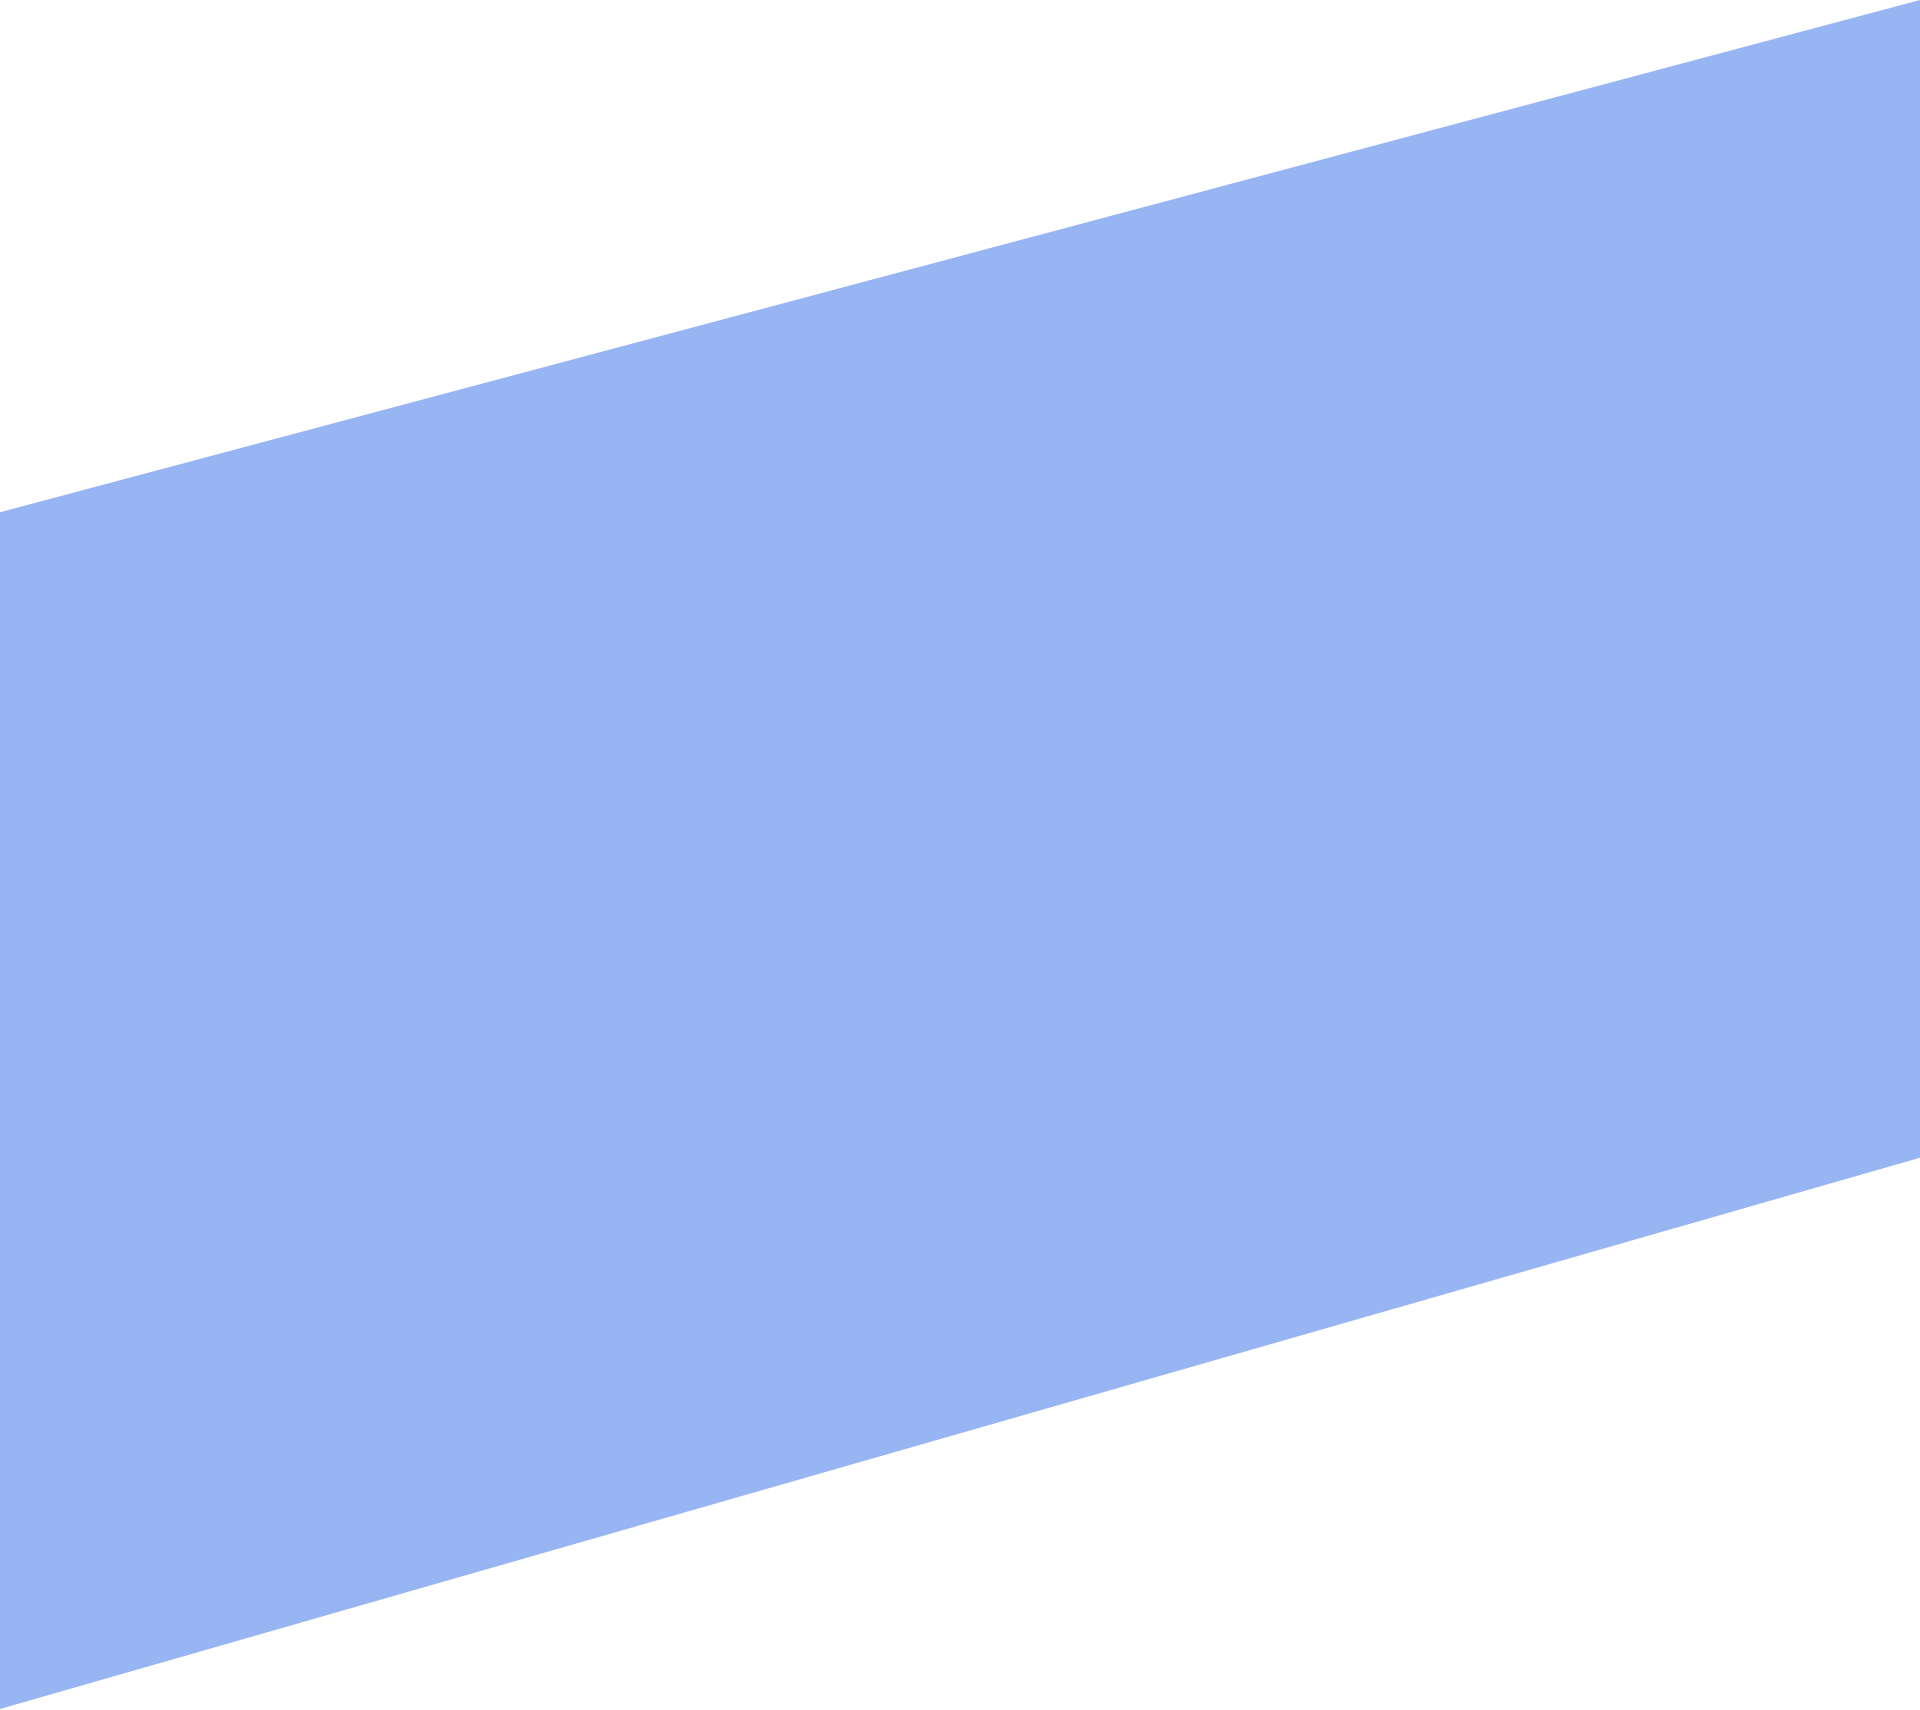
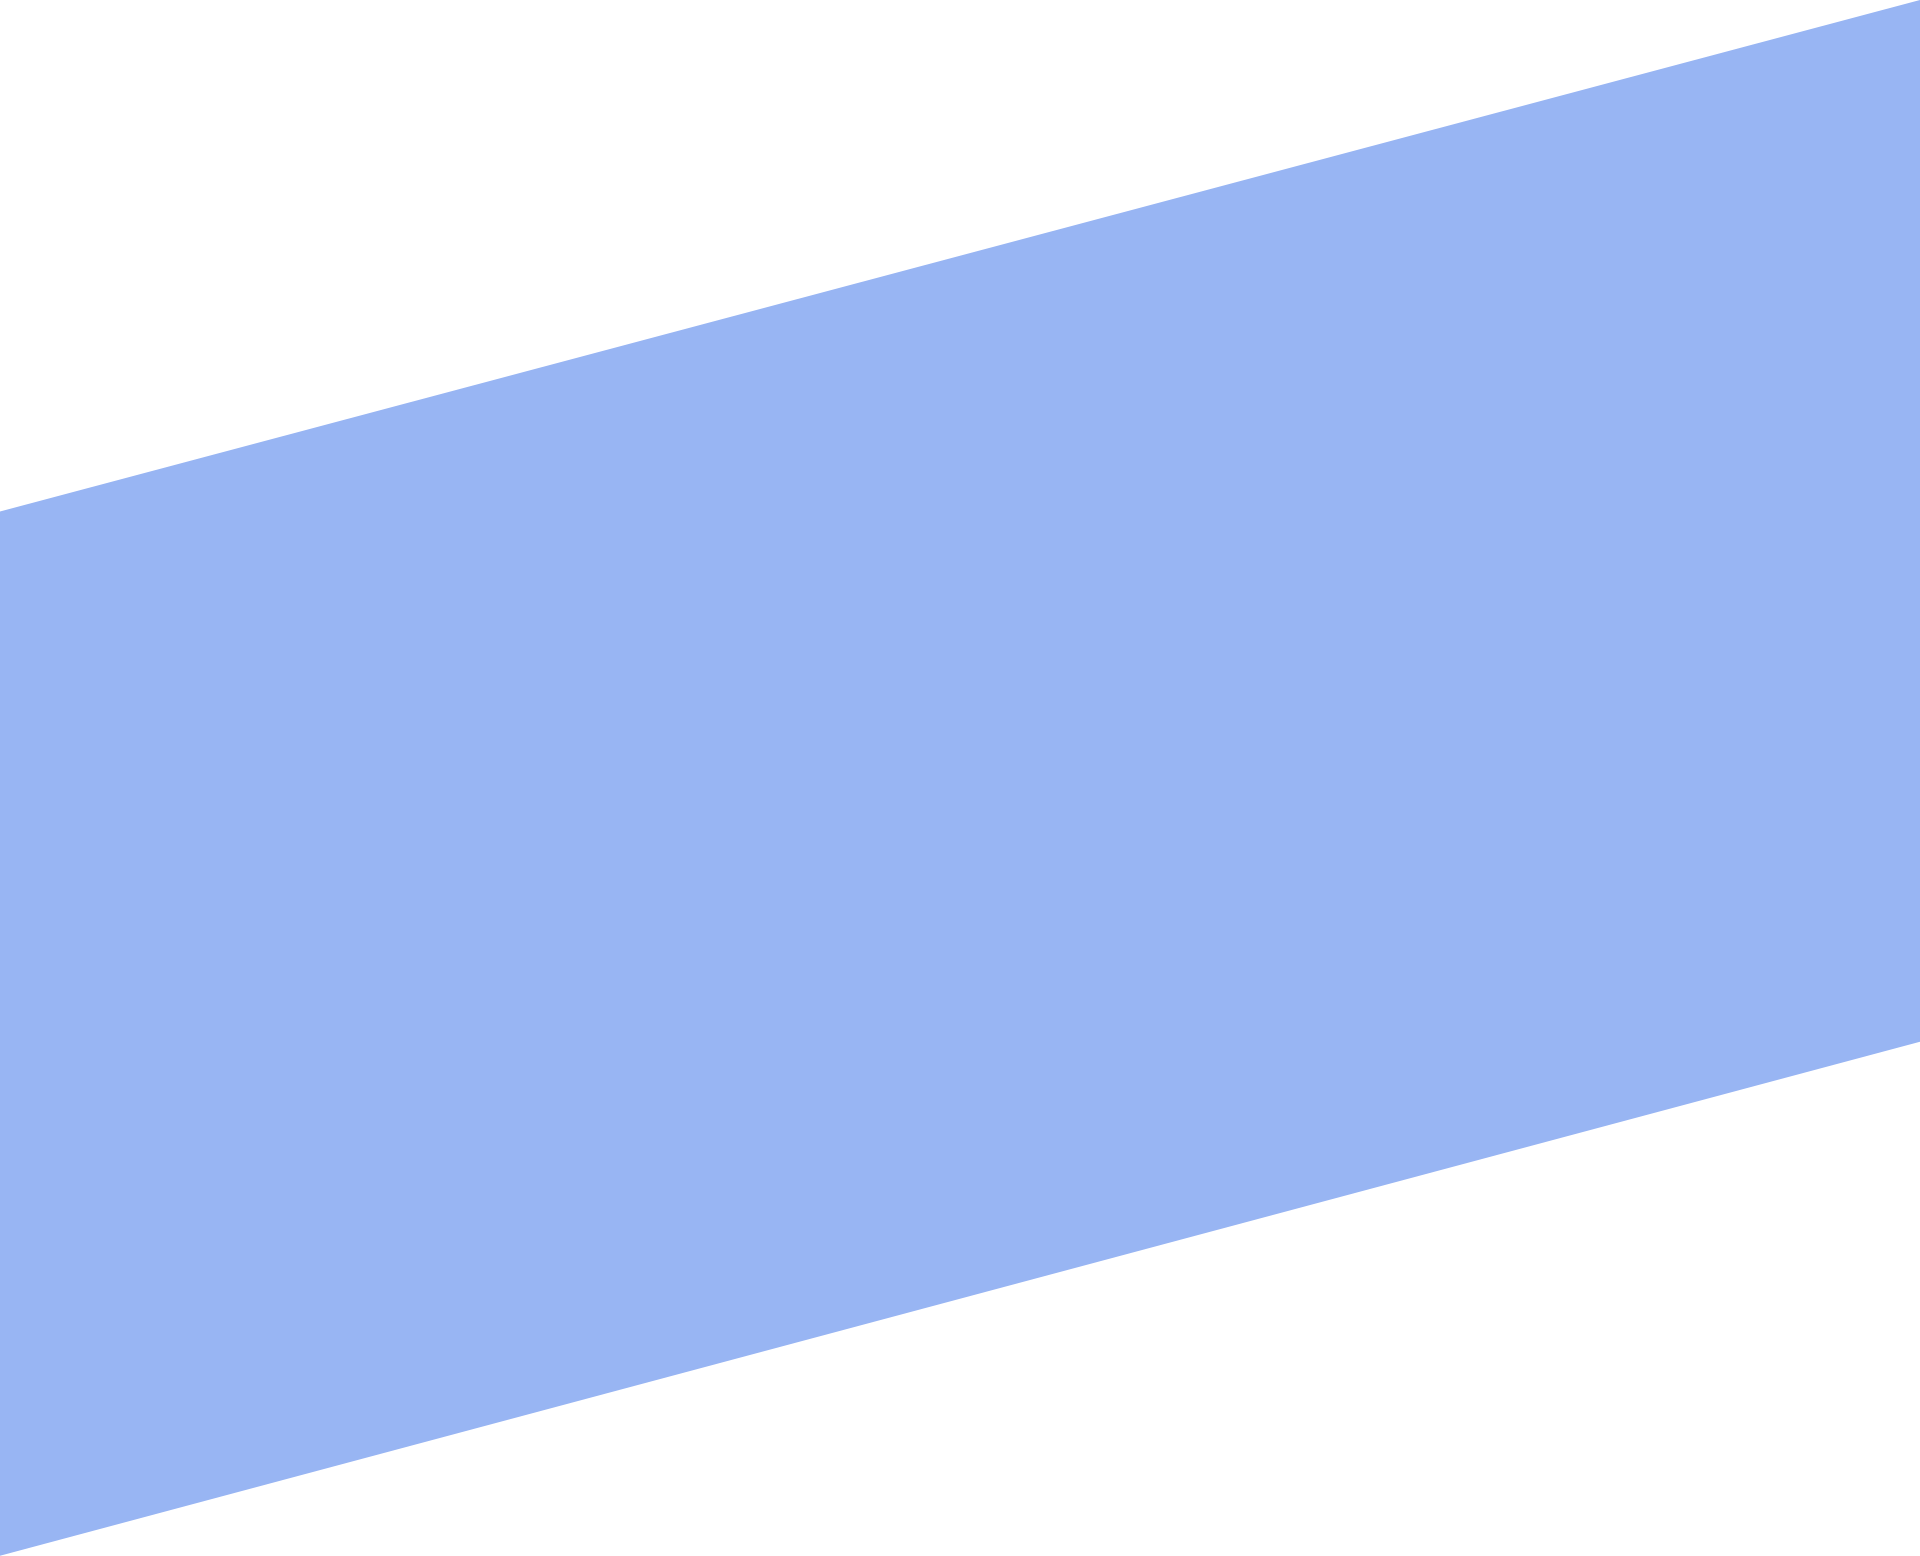
1

diff --git a/index.html b/index.html
@@ -10,6 +10,7 @@
 </head>
 <body>
     <header>
+<!-- Navigation Bar -->
         <nav>
             
             <a href="index.html"><img class="logo" src="images\Logo-with-text.png" alt="logo"></a>
@@ -19,6 +20,7 @@
                 <li><a href="contact.html">Contact Us</a></li>
             </ul>
         </nav>
+<!-- Hero Section -->
         <div class="hero container">
             <div class="hero--info">
                 <h1 class="hero--info-heading">We make your landscape dreams become a reality.</h1>
@@ -30,6 +32,7 @@
             </div>
         </div>
     </header>
+<!-- About Section -->    
     <main class="about" id="about">
         <div class="logo--decoration-container">
             <img class="logo-decorated" src="images\logo-decoration.png" alt="logo-decorated">
@@ -51,82 +54,98 @@
             </div>
             <div class="green-decoration second-bar"></div>
         </div>
-        
     </main>
+<!-- First Blue Decoration -->
+    <div class="blue--decoration-1-container">
+        <img src="images\blue-decoration-1.png" alt="blue-decoration" class="blue--decoration-1">
+    </div>
+   
+<!-- Services Section -->    
     <section class="services" id="services">
         <h1 class="services--h1">Commercial and Residential Services</h1>
-        <div class="blue--decoration-1-container">
-            <img src="images\blue-decoration-1.png" alt="blue-decoration" class="blue--decoration-1">
-        </div>
-        <div class="services--pictures">
+        <div class="services--pictures-container">
             <div class="pictures--row-of-3">
-                <img src="images\services\landscape-maintenance@2x.png" alt="landscape-maintenance">
-                <img src="images\services\deck-restorations@2x.png" alt="deck-restorations">
-                <img src="images\services\gutter-cleaning@2x.png" alt="gutter-cleaning">
+                <img src="images\services\landscape-maintenance@2x.png" alt="landscape-maintenance" class="services--pictures">
+                <img src="images\services\deck-restorations@2x.png" alt="deck-restorations" class="services--pictures">
+                <img src="images\services\gutter-cleaning@2x.png" alt="gutter-cleaning" class="services--pictures">
             </div>
             <div class="pictures--row-of-2">
-                <img src="images\services\leaf-removal@2x.png" alt="leaf-removal">
-                <img src="images\services\mowing@2x.png" alt="mowing">
+                <img src="images\services\leaf-removal@2x.png" alt="leaf-removal" class="services--pictures">
+                <img src="images\services\mowing@2x.png" alt="mowing" class="services--pictures">
             </div>
             <div class="pictures--row-of-3">
                 <img src="images\services\pruning@2x.png" alt="pruning">
-                <img src="images\services\shrub-trimming@2x.png" alt="shrub-trimming">
-                <img src="images\services\mulching@2x.png" alt="mulching">
+                <img src="images\services\shrub-trimming@2x.png" alt="shrub-trimming" class="services--pictures">
+                <img src="images\services\mulching@2x.png" alt="mulching" class="services--pictures">
             </div>
             <div class="pictures--row-of-2">
-                <img src="images\services\snow-removal@2x.png" alt="snow-removal">
-                <img src="images\services\lawn-care-packages@2x.png" alt="lawn-care-packages">
+                <img src="images\services\snow-removal@2x.png" alt="snow-removal" class="services--pictures">
+                <img src="images\services\lawn-care-packages@2x.png" alt="lawn-care-packages" class="services--pictures">
             </div>
         </div>
-        
-    </section class="content">
+    </section>
+
+<!-- Content Section -->      
+    <section class="content">
         <div class="content--section-1">
-            <div class="content--info">
+            <div class="content--info-1">
                 <p class="content--info-subheading">Leave the work to us</p>
                 <p class="content--info-heading">We’ll leave the relaxing to you.</p>
             </div>
-            <img src="images\content-picture-1@2x.png" alt="content-picture-1">
+            <img src="images\content-picture-1@2x.png" alt="content-picture-1" class="content-picture">
         </div>
+
         <div class="content--section-2">
-            <img src="images\content-picture-2@2x.png" alt="content-picture-2">
-            <div class="content--info">
+            <img src="images\content-picture-2@2x.png" alt="content-picture-2" class="content-picture">
+            <div class="content--info-2">
                 <p class="content--info-subheading">Our services have you</p>
                 <p class="content--info-heading">cover every season.</p>
                 <button class="button--contact-us">Contact Us</button>
             </div>
         </div>
-    <section>
+    </section> 
+    <!-- Second Blue Decoration -->
+    <div class="blue--decoration-2-container">
+        <img src="images\blue-decoration-2.png" alt="blue-decoration-2" class="blue--decoration-2">
+    </div> 
+
+<!-- Contact Information Section -->           
+    <section class="contact-information">
         <h1 class="contact-information--h1">Contact Information</h1>
         <div class="contact-information--content">
             <div class="contact-information--info">
-                <div class="address">
-                    <img src="images\icons\address.png" alt="address">
+                <div class="address icon-container">
+                    <img src="images\icons\address.png" alt="address" class="contact-information--icon">
                     <p>Rockville, MD 20853</p>
                 </div>
-                <div class="phone">
-                    <img src="images\icons\phone-number.png" alt="phone">
+                <div class="phone icon-container">
+                    <img src="images\icons\phone-number.png" alt="phone" class="contact-information--icon">
                     <p>(240) 277-5278</p>
                 </div>
-                <div class="email">
-                    <img src="images\icons\email.png" alt="email">
+                <div class="email icon-container">
+                    <img src="images\icons\email.png" alt="email" class="contact-information--icon">
                     <a href = "mailto: silaslandscaping@gmail.com">silaslandscaping@gmail.com</a>
                 </div>
-                <div class="time">
-                    <img src="images\icons\time.png" alt="time">
-                    <p>Monday to Saturday</p>
-                    <p>6:00 AM to 9:00 PM</p>
-                </div>
+                <div class="time icon-container">
+                    <img src="images\icons\time.png" alt="time" class="contact-information--icon">
+                    <p>Monday to Saturday <br>6:00 AM to 9:00 PM</p>
+                 </div>
             </div>
-            <img src="images\maryland-dc-map.jpg" alt="maryland-dc-map">
+            <div class="map-container">
+                <img src="images\maryland-dc-map.jpg" alt="maryland-dc-map" class="map">
+            </div>
+            
         </div>
         <div class="contact-information--social-media">
-            <a href="https://www.facebook.com/Silaslandscapinginc" target="_blank" rel="noopener noreferrer"><img class="social-media facebook" src="images\icons\facebook.png" alt="facebook-icon"></a>
-            <a href="https://www.instagram.com/p/COp0fUAB9Na/?igshid=3onubez5n0dk" target="_blank" rel="noopener noreferrer"><img class="social-media instagram" src="images\icons\instagram.png" alt="instagram-icon"></a>
-            <a href="https://www.yelp.com/biz/silas-landscaping-and-cleaning-services-rockville?uid=x2lBZvVCGqLfAgMGK4albA&utm_source=ashare" target="_blank" rel="noopener noreferrer"><img class="social-media yelp" src="images\icons\yelp.png" alt="yelp-icon"></a>
+            <a href="https://www.facebook.com/Silaslandscapinginc" target="_blank" rel="noopener noreferrer"><img class="social-media--icon facebook" src="images\icons\facebook.png" alt="facebook-icon"></a>
+            <a href="https://www.instagram.com/p/COp0fUAB9Na/?igshid=3onubez5n0dk" target="_blank" rel="noopener noreferrer"><img class="social-media--icon instagram" src="images\icons\instagram.png" alt="instagram-icon"></a>
+            <a href="https://www.yelp.com/biz/silas-landscaping-and-cleaning-services-rockville?uid=x2lBZvVCGqLfAgMGK4albA&utm_source=ashare" target="_blank" rel="noopener noreferrer"><img class="social-media--icon yelp" src="images\icons\yelp.png" alt="yelp-icon"></a>
         </div>
     </section>
+<!-- Footer -->     
     <footer>
         <p>© Copyright 2021 Silas Landscaping - All Rights Reserved</p>
     </footer>
+      
 </body>
 </html>

diff --git a/css/styles.css b/css/styles.css
@@ -23,6 +23,7 @@ html {
     margin-left: auto;
     margin-right: auto;  
     margin-top: 100px;
+    scroll-behavior: smooth;
 }
 
 .container {
@@ -109,7 +110,7 @@ nav {
     width: 100%;
 }
 
-/**** About Section ****/
+/**** About Section ****/ 
  
 main {
     display: flex;
@@ -118,6 +119,7 @@ main {
     margin-left: 5%;
     margin-right: 5%;
     align-items: center;
+    margin-bottom: 10%;
 }
 
 .logo--decoration-container {
@@ -158,53 +160,161 @@ main {
     font-weight: 500;
 }
 
-/**** Services Section ****/
+/**** Services Section ****/ 
 
 .services {
     width: 100%;
-    margin-top: 10%;
+    margin-bottom: 8%;
     display: grid;
     justify-content: center;
 }
 
 .services--h1 {
-    font-size: 6rem;
+    font-size: 7rem;
+    font-weight: 500;
 }
 
-.services--pictures {
+.services--pictures-container {
     margin-top: 5%;
+    justify-content: center;
 }
 
 .pictures--row-of-3 {
     display: flex;
-    gap: 5rem;
-    margin-top: 5rem;
+    justify-content: center;
+    margin-top: 6rem;
+    gap: 4rem;
 }
 
 .pictures--row-of-2 {
     display: flex;
     justify-content: center;
-    gap: 5rem;
-    margin-top: 5rem;
+    margin-top: 6rem;
+    gap: 4rem;
 }
+
+
+/**** Content Section ****/ 
+
+.content {
+    margin-left: 8%;
+    margin-right: 8%;
+    margin-top: 15%;
+}
+
+.content--section-1 {
+    width: 100%;
+    display: flex;
+    align-items: center;
+    justify-content: space-between;
+    margin-bottom: 10rem;
+}
+
+.content--section-2 {
+    width: 100%;
+    display: flex;
+    align-items: center;
+    justify-content: space-between;
+    margin-bottom: 20rem;
+}
+
+.content-picture {
+    width: 35%;
+}
+
+.content--info-heading {
+    font-size: 6rem;
+    font-weight: 500;
+}
+
+.content--info-subheading {
+    font-size: 4rem;
+}
+
+.content--info-2 {
+    margin-right: 7%;
+}
+
+/**** Blue Decorations ****/ 
 
 .blue--decoration-1-container {
     width: 100%;
     max-width: 1920px;
     position: absolute;
-    margin-top: 7%;
     z-index: -1;
 }
 
 .blue--decoration-1 {
     width: 100%;
-    
 }
 
-/**** Content Section ****/
+.blue--decoration-2-container {
+    width: 100%;
+    max-width: 1920px;
+    position: absolute;
+    z-index: -3;
+    top: 4100px;
 
-.content {
-    margin-top: 50%;
-    display: grid;
-    justify-content: center;
+}
+
+.blue--decoration-2 {
+    width: 100%;
+}
+
+/**** Contact Information Section ****/
+
+.contact-information {
+    width: 100%;
+    text-align: center;
+}
+
+.contact-information--h1 {
+    font-size: 7rem;
+    font-weight: 500;
+}
+
+.contact-information--content {
+    display: flex;
+    justify-content: space-evenly;
+    margin-top: 5%;
+    font-size: 2rem;
+}
+
+.icon-container {
+    display: flex;
+    align-items: center;
+    margin-top: 10%;
+}
+
+.contact-information--icon {
+    width: 17%;
+    margin-right: 7%;
+}
+
+.map.container {
+    width: 100%;
+
+}
+
+.contact-information--social-media {
+    margin-top: 5%;
+}
+
+.social-media--icon {
+    width: 4%;
+    margin-left: 5%;
+    margin-right: 5%;
+}
+
+/**** Footer ****/
+
+footer {
+    margin-top: 2%;
+    background-color: var(--clr-blue-dark);
+    color: white;
+    height: 50px;
+    display: flex;
+    align-items: center;
+    padding-left: 3%;
+    font-size: 1.5rem;
 }
